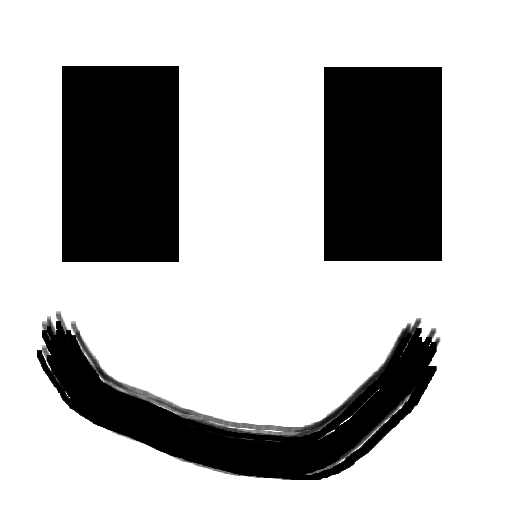
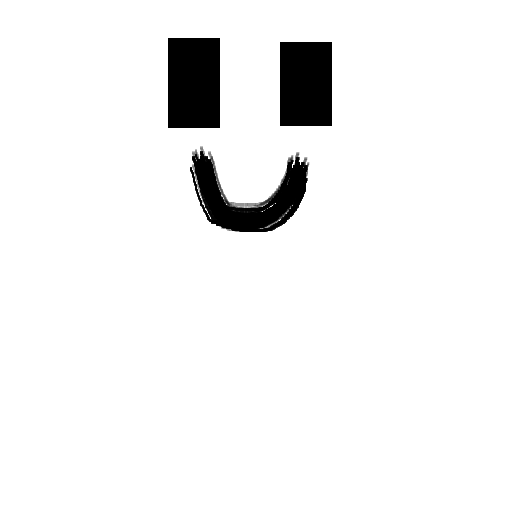
Correção textura cabeça

diff --git a/src/Simple3DCharacter.cpp b/src/Simple3DCharacter.cpp
@@ -45,7 +45,6 @@ void Simple3DCharacter::loadTexture(const char *filename, GLuint *textureID)
     glGenTextures(1, textureID);
     if (textureID == 0)
     {
-        std::cerr << "Erro ao gerar o Texture ID!" << std::endl;
         stbi_image_free(data);
         return;
     }
@@ -59,8 +58,6 @@ void Simple3DCharacter::loadTexture(const char *filename, GLuint *textureID)
 
     glTexImage2D(GL_TEXTURE_2D, 0, GL_RGBA, width, height, 0, GL_RGBA, GL_UNSIGNED_BYTE, data);
     stbi_image_free(data);
-
-    std::cout << "Texture ID " << *textureID << " carregado e vinculado com sucesso." << std::endl;
 }
 
 void Simple3DCharacter::setMaterial(const float ambient[4], const float diffuse[4], const float specular[4], float shininess) const
@@ -75,38 +72,40 @@ void Simple3DCharacter::drawHead() const
 {
     glPushMatrix();
 
-    // Desenhando a cabeça (esfera)
     glTranslatef(0.0f, torsoHeight + headRadius, 0.0f);
-    glColor3f(0.8f, 0.8f, 0.8f); // Cor base para a cabeça
 
-    // Definindo as coordenadas de textura para a esfera
-    glEnable(GL_TEXTURE_2D);                     // Habilita texturas
-    glBindTexture(GL_TEXTURE_2D, textureIDHead); // Assumindo que 'textureID' é o ID da textura da cabeça
+    glEnable(GL_TEXTURE_2D);
+    glBindTexture(GL_TEXTURE_2D, textureIDHead);
 
-    // Setando material para a cabeça (ambient, diffuse, specular)
     float ambientHead[4] = {0.2f, 0.2f, 0.2f, 1.0f};
     float diffuseHead[4] = {0.8f, 0.8f, 0.8f, 1.0f};
     float specularHead[4] = {1.0f, 1.0f, 1.0f, 1.0f};
     setMaterial(ambientHead, diffuseHead, specularHead, 32.0f);
 
-    glutSolidSphere(headRadius, 10, 10);
+    glPushMatrix();
+    glRotatef(50.0f, 1.0f, 0.0f, 0.0f);
+    GLUquadric *quadric = gluNewQuadric();
+    gluQuadricTexture(quadric, GL_TRUE);
+    gluQuadricNormals(quadric, GLU_SMOOTH);
 
-    glDisable(GL_TEXTURE_2D); // Desabilita texturas para o próximo objeto
+    gluSphere(quadric, headRadius, 50, 50);
+    glPopMatrix();
 
-    // Desenhando o cone (pescoço ou parte inferior da cabeça)
-    glTranslatef(0.0f, headRadius, 0.0f);
-    glRotatef(-90.0f, 1.0f, 0.0f, 0.0f);
-    glColor3f(1.0f, 0.0f, 0.0f); // Cor base para o cone
+    gluDeleteQuadric(quadric);
+    glDisable(GL_TEXTURE_2D);
 
-    // Definindo coordenadas de textura para o cone
-
-    // Setando material para o cone
+    glColor3f(1.0f, 0.0f, 0.0f);
     float ambientCone[4] = {0.3f, 0.1f, 0.1f, 1.0f};
     float diffuseCone[4] = {0.7f, 0.0f, 0.0f, 1.0f};
     float specularCone[4] = {0.9f, 0.9f, 0.9f, 1.0f};
     setMaterial(ambientCone, diffuseCone, specularCone, 16.0f);
 
+    glPushMatrix();
+    glRotatef(-90.0f, 1.0f, 0.0f, 0.0f);
+    glTranslatef(0.0f, 0.0f, headRadius);
+
     glutSolidCone(0.5f, headRadius * 1.5f, 10, 10);
+    glPopMatrix();
 
     glPopMatrix();
 }
@@ -214,7 +213,7 @@ void Simple3DCharacter::drawLeftArm() const
 {
     float xOffset = scale * 2.0f / 2.0f + 1.0f;
     float yOffset = scale * 1.0f + limbLength / 2.0f - 0.2f * limbLength;
-    float forearmRotationAngle = armLeftRotationAngle < 0.0f ? fabs(armRightRotationAngle) * 2.0f : 0.0f;
+    float forearmRotationAngle = armLeftRotationAngle < 0.0f ? fabs(armLeftRotationAngle) * 2.0f : 0.0f;
 
     glPushMatrix();
     glTranslatef(0.0f, (limbLength / 2.0f), 0.0f);

diff --git a/src/input.cpp b/src/input.cpp
@@ -123,21 +123,21 @@ void keyboardUp(unsigned char key, int x, int y)
     {
     case 'w':
         Globals::character.setMoveForward(false);
+        Globals::character.setIdle(true);
         break;
     case 's':
         Globals::character.setMoveBackward(false);
+        Globals::character.setIdle(true);
         break;
     case 'a':
         Globals::character.setMoveLeft(false);
+        Globals::character.setIdle(true);
         break;
     case 'd':
         Globals::character.setMoveRight(false);
+        Globals::character.setIdle(true);
         break;
     case ' ':
-    case 'r':
-    case 'f':
-    case 't':
-    case 'h':
         Globals::character.setIdle(true);
         break;
     default:
